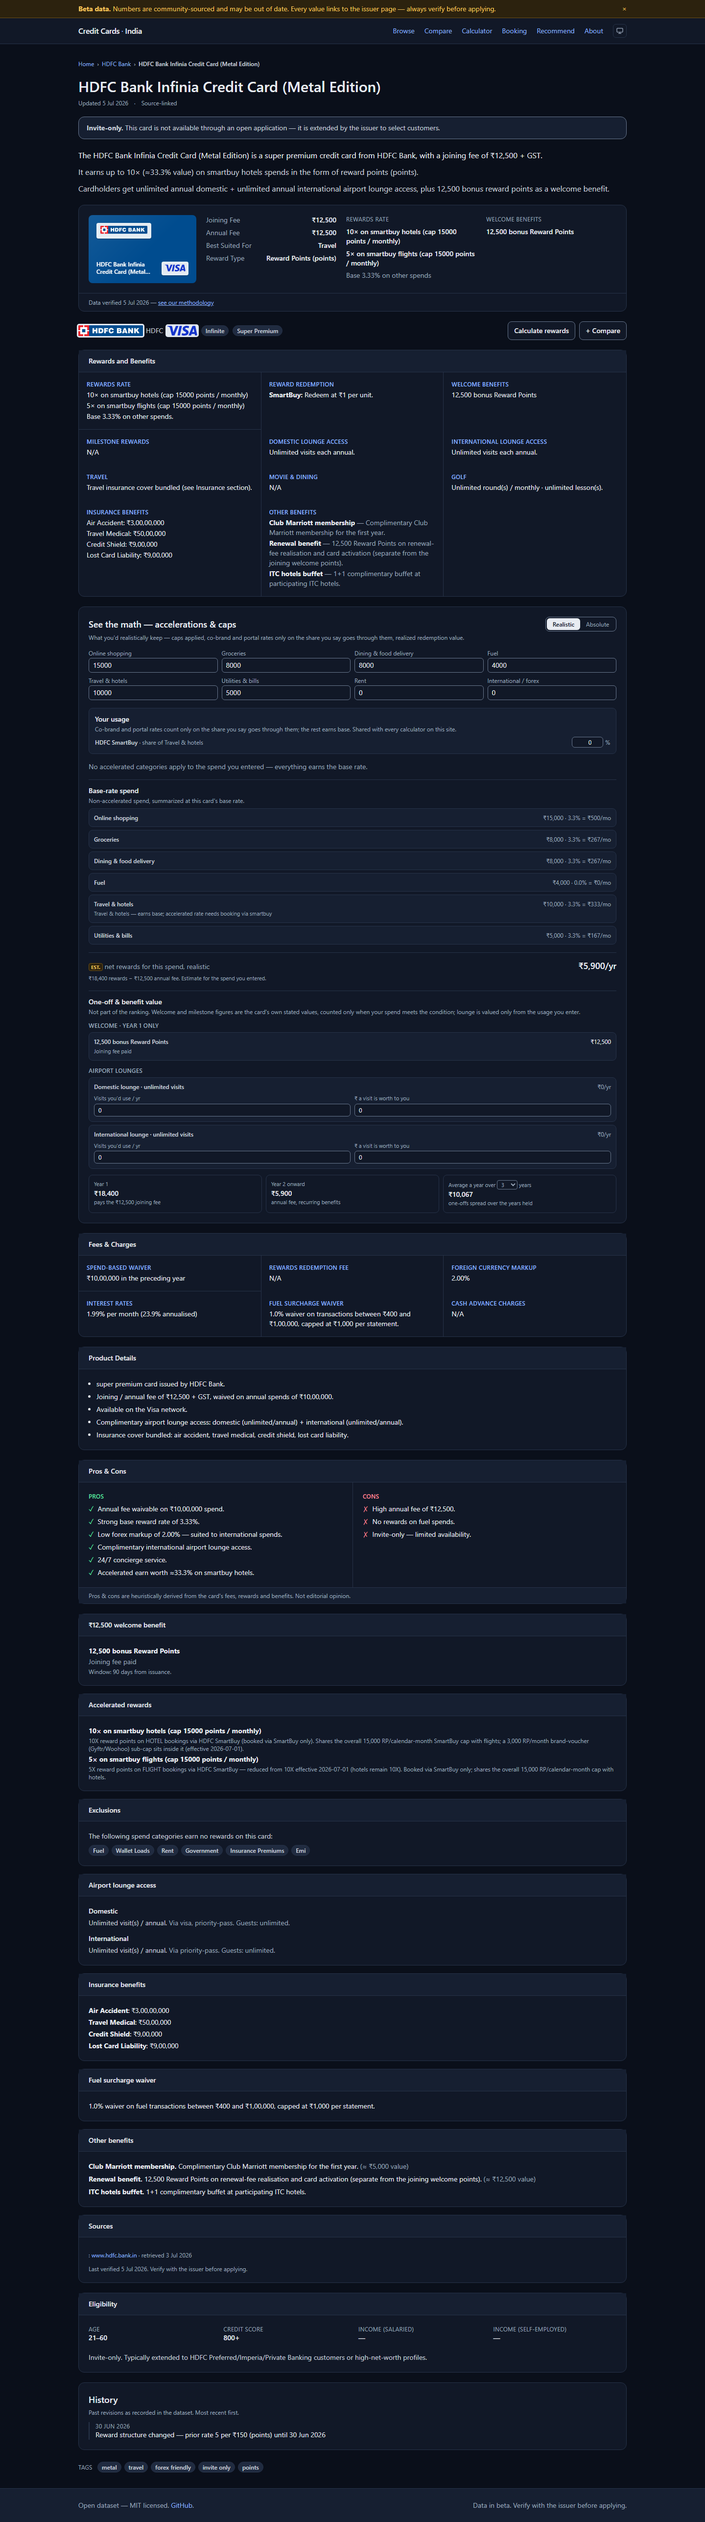
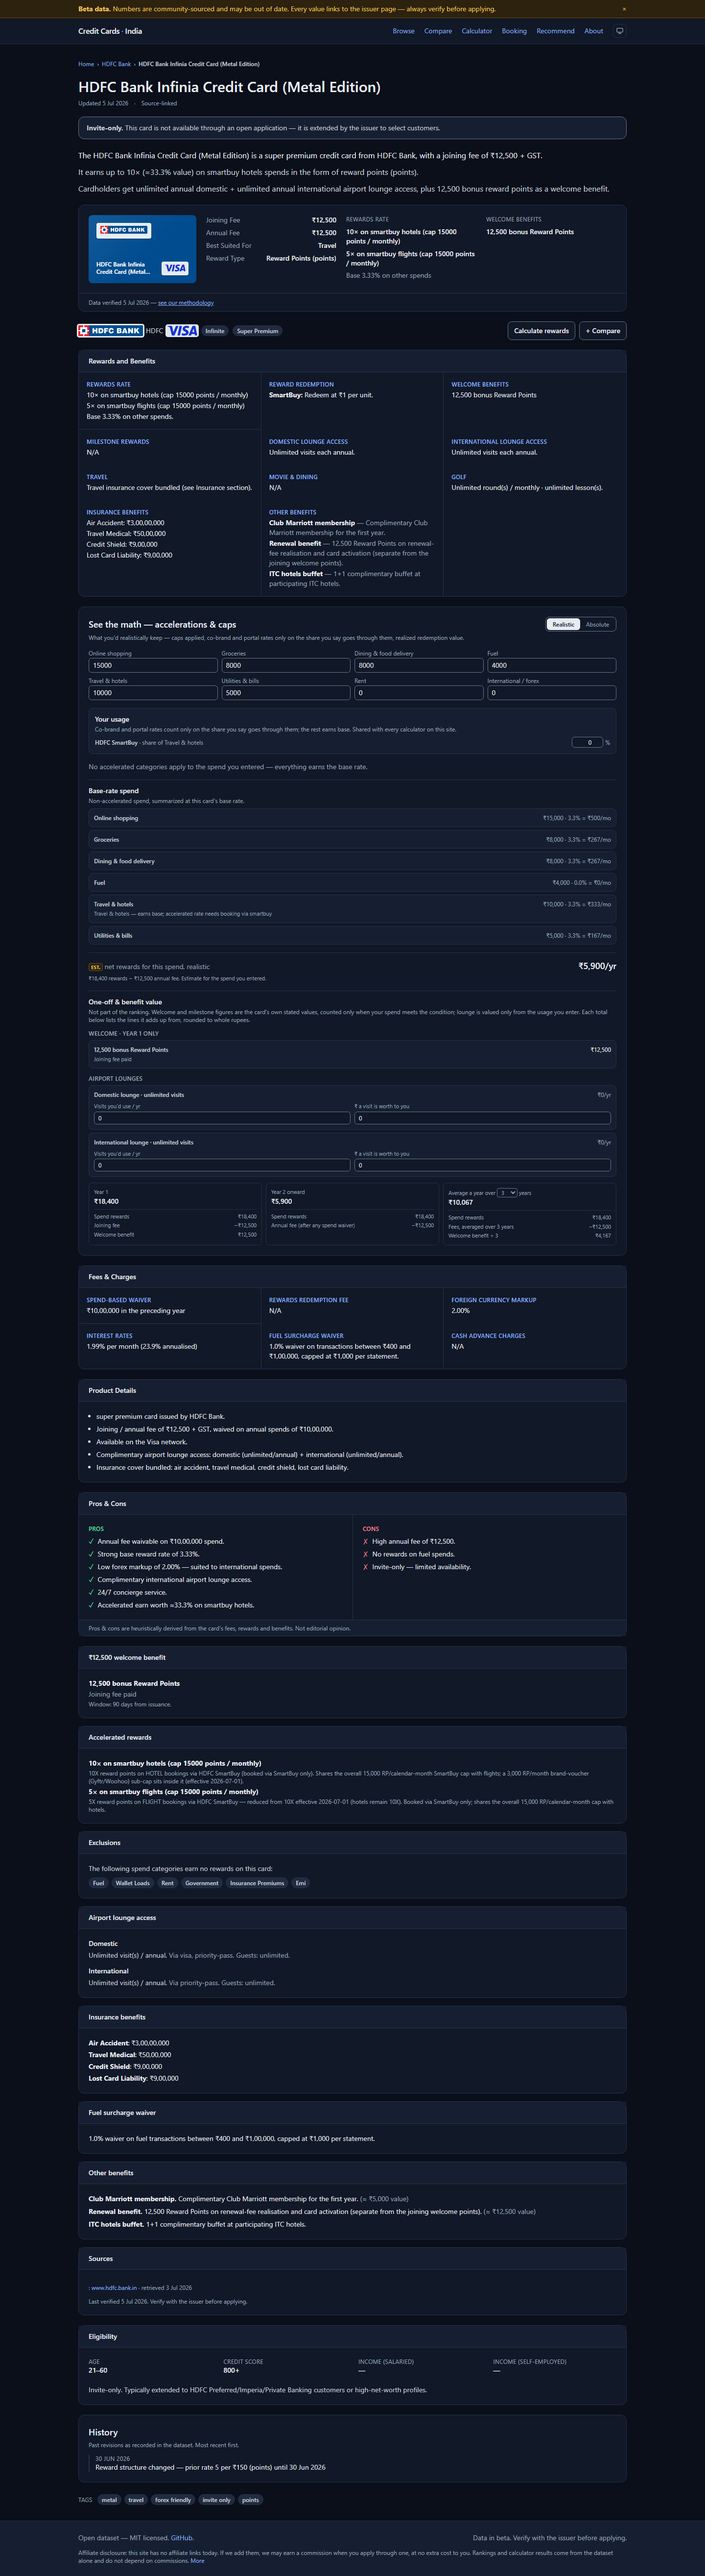
docs: integration notes for design/tokens-dark-mode; calculator and detail screenshots
Adds the design merge to INTEGRATION-2026-10-20.md: conflict resolutions, new
contrast pairs, gate results on 7fd61dd and items left for a person. Re-shot
calculator (pinned row, ledger, tier picker) and card-detail pages in light
and dark.

diff --git a/docs/INTEGRATION-2026-10-20.md b/docs/INTEGRATION-2026-10-20.md
@@ -10,6 +10,7 @@ It was cut from `main` at `663b5b1`. Each branch was merged with `--no-ff`, in t
 | 3 | `9478cd2` | `seo/basics` (`8d4ee0f`) | none |
 | 4 | `12773c7` | `affiliate/disclosure` (`be6ae70`) | none |
 | 5 | `db8dbbe` | `calc/phase-3-tiers` (`26f8d54`, which contains `calc/phase-2` at `d159f84`) | none |
+| 6 | `49896d7` | `design/tokens-dark-mode` (`33370d2`), merged later the same night | 5 files, resolved below (see "Design tokens and dark mode") |
 
 Nothing was pushed or deployed. `main` and the six source branches are unchanged.
 
@@ -90,6 +91,48 @@ Notes from the run:
 - The D3 log rows and TODO D3/P4 rows quote coverage figures measured on the D3 branch alone (strict-ready 425 of 666). With D4/D5 merged, the figure is 433 of 674. The 6 new D5 cards and the new Burgundy records carry only the evidence fields D4 wrote; they did not go through the D3 backfill.
 - `scripts/backfill_local_evidence.py` and `backfill_source_type.py` need `ruamel.yaml`. It is not in `scripts/requirements.txt` or the repo `.venv`. The tests still pass without it because the round-trip case skips, but re-running the backfills needs a Python that has ruamel.
 
+## Design tokens and dark mode (`design/tokens-dark-mode`, merged at `49896d7`)
+
+This branch is the Todoist "Visual redesign pass", done in code because Figma wasn't available. It adds:
+- Semantic design tokens as CSS variables in `site/styles/tokens.css`, mapped into Tailwind.
+- Light and dark themes. Dark follows `prefers-color-scheme`, and a header toggle overrides it; the choice is saved in `localStorage["cci-theme"]` with try/catch.
+- A WCAG 2.2 contrast test, `site/lib/design-tokens.test.ts`.
+- Every component moved onto the tokens.
+- Docs in `docs/design/`: `REFERENCES.md`, `TOKENS.md` and `screenshots/`.
+
+**Conflicts.** For each conflict I kept the integration side's content and applied the token mapping to it:
+- `app/layout.tsx`: the `site-config` import (seo/basics) plus the theme-toggle imports.
+- `app/about/page.tsx`: the affiliate disclosure section.
+- `app/calculator/page.tsx` and `calculator-client.tsx`: `tieredPrograms` and `tierCtx` (phase 3).
+- `components/detail/value-components-panel.tsx`: the Year 1 / Year 2+ / average ledger cells (phase 2).
+
+Some auto-merged phase-2/phase-3 UI still had raw palette classes: the tier picker in `usage-panel.tsx`, `LedgerLines`, the about disclosure and the footer note. These were tokenised in the merge commit too. No `slate-`, `brand-`, `amber-`, `emerald-` or `rose-` classes remain. The only hex colours left are intentional:
+- `app/og.png/route.tsx` is a server-rendered OG image, where CSS variables can't apply. It stays light and uses the light-token hex values.
+- The white text and chips on card art in `card-image.tsx`.
+
+**New contrast pairs** (commit `7fd61dd`). The phase-2 ledger and phase-3 tier select render inside the pinned `/calculator` row, which is `bg-accent-subtle`. Three pairs on that background are now checked:
+- `success` (the net ₹/yr): light 4.97:1, dark 9.07:1, minimum 4.5.
+- `line-strong` (tier select border): light 3.06:1, dark 3.31:1, minimum 3.
+- `accent` (row border): light 6.07:1, dark 6.31:1.
+
+The total is now 73 pairs × 2 themes = 146 checks, and all pass. The tightest are `line-strong` on `accent-subtle` (3.06:1) and `fg-placeholder` on `surface-subtle` (4.58:1). Both are light theme.
+
+**Checks on `7fd61dd`:**
+
+| Check | Result |
+|---|---|
+| `scripts/validate.py` | OK. Same warnings as before: stale `last_verified_on`, unvouched rules, and the absent PDF archive. |
+| `npm run prebuild` | OK. Schema validation passes on 361 files, and 326 cards were written. |
+| `vitest run` | 26 files, 421 of 421 tests pass. That includes 146 contrast checks and the theme tests. |
+| `tsc --noEmit` | 0 errors. |
+| `next build` | 339 static pages generated. |
+| Playwright, 1440px, light and dark | `/calculator?card=hdfc-marriott-bonvoy` (pinned row, 11 ledger lines, tier picker), `/card/hdfc/infinia` and `/card/hdfc/marriott-bonvoy` (tier picker and ledger). No console errors and no horizontal overflow. All were reviewed visually and saved to `docs/design/screenshots/` (`calculator-*`, `card-hdfc-infinia-*`, `card-hdfc-marriott-bonvoy-*`). |
+
+**Left for a person:**
+- The dark-mode amber "How we rank" band reads brownish. That's a matter of taste; it passes contrast and was left alone on purpose. The knob is `--color-warn-subtle` in the dark blocks.
+- The Diners Club network mark in the pinned calculator row is tiny in both themes. That's the logo asset, not the theme.
+- The defaults to confirm are listed in `docs/design/TOKENS.md` under "Open decisions": off-white light canvas, no webfont, one muted text level, and a light-blue primary button with dark text in dark mode.
+
 ## Open decisions that affect this repo
 
 These come from `C:\Users\achar\reports\Decisions to make 2026-10-20.md` and the branches' own notes. None of them blocks merging, but each should be answered before the related work ships.
@@ -112,7 +155,8 @@ Other review points from the overnight defaults (decisions file, credit_cards_in
 - [ ] Skim the data diff by issuer: `git diff main...integration/2026-10-20 --stat -- data/`. Most of the 373 changed files are D3's `type`, `confidence` and evidence lines.
 - [ ] Check that the footer and `/about` read correctly together (SEO metadata plus the affiliate disclosure): `npm --prefix site run dev`.
 - [ ] Optionally re-run the gates locally: `python scripts/validate.py`, the 7 Python tests, and `npm --prefix site test`, `run typecheck` and `run build`.
+- [ ] Look at the design screenshots in `docs/design/screenshots/` (light and dark), and toggle the theme once with `npm --prefix site run dev`.
 - [ ] Merge into main: `git checkout main && git merge --no-ff integration/2026-10-20`. A fast-forward also works, because the branch is main plus merges.
 - [ ] Push and deploy when ready. Set `NEXT_PUBLIC_SITE_URL` in Vercel if a custom domain is attached.
 - [ ] Record D-26 (forex rank) before starting Phase 4. Start any other new decision at D-27.
-- [ ] Clean up: `git worktree remove` the seven worktrees under `scratchpad\cc-worktrees\` (`remediate`, `d3`, `seo`, `affiliate`, `phase2`, `phase3`, `integration`), then delete the merged branches if you no longer need them.
+- [ ] Clean up: `git worktree remove` the eight worktrees under `scratchpad\cc-worktrees\` (`remediate`, `d3`, `seo`, `affiliate`, `phase2`, `phase3`, `design`, `integration`), then delete the merged branches if you no longer need them.
